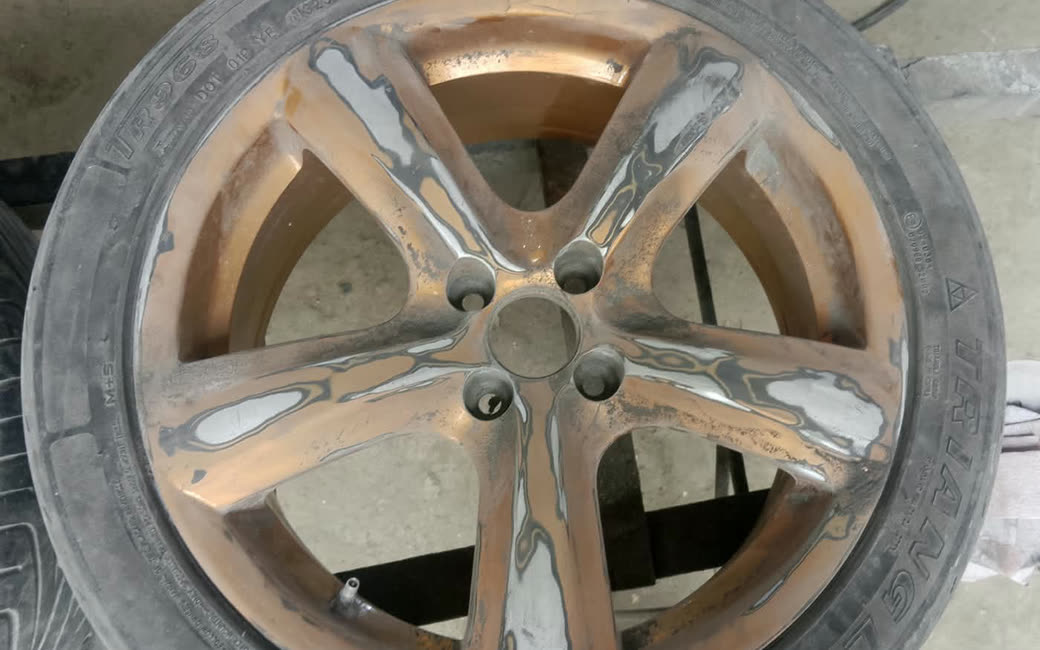
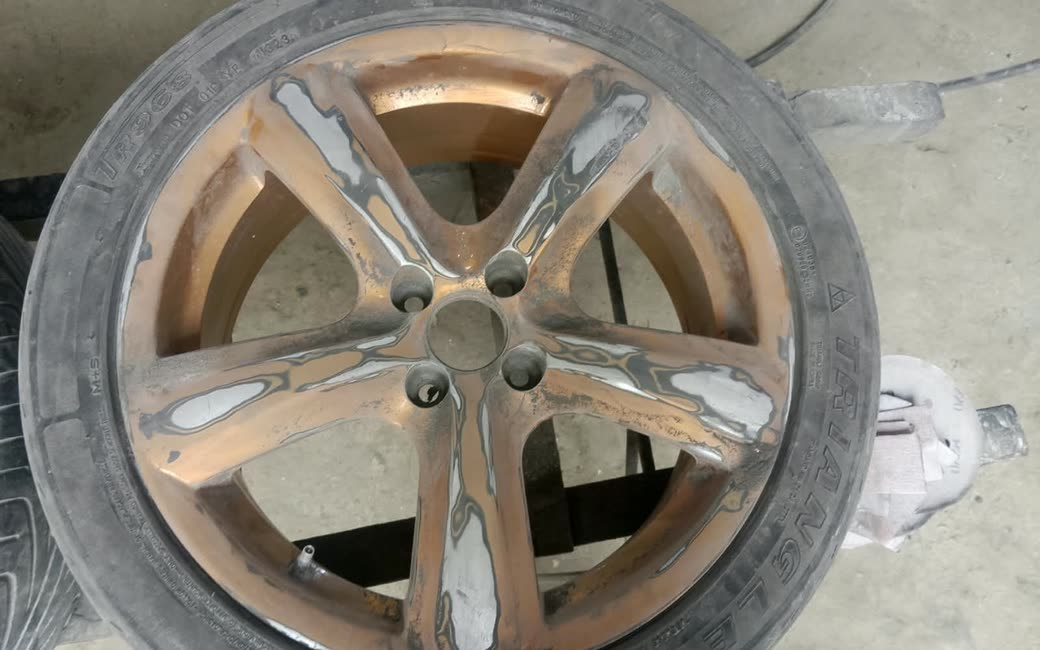
Open up the two new crops, and cut them back to a label
The finished car was framed too tight to read as a finish — it showed a
corner, not a car. Both car crops now use as much of their frame as 16:10
allows, so the after shows the whole car: black, glossy, gold rims on. The
rim pair does the same; its photos already had the rim filling the frame, so
the most that can be pulled back is the full picture at 16:10, which at least
leaves air around it rather than clipping top and bottom.

That gives up the alignment the first pair has — the rim sits further right
in the after, the car sits differently — which is the trade Carlos asked for:
showing the finish matters more here than the wipe lining up.

Their descriptions are gone. A photo of a rim going from bare metal to gold
does not need a paragraph explaining that rims get painted, so each keeps a
small label and nothing else. The first pair keeps its text, since the Datsun
needs the context of what was wrong with it.

Claude-Session: https://claude.ai/code/session_01PfKhjmf4nxZC1UoeR9eAoA

diff --git a/landing/base.html b/landing/base.html
@@ -259,6 +259,10 @@ section{padding-block:var(--s8)}
 .trabajo h3{font-family:var(--display);text-transform:uppercase;font-size:clamp(20px,2.4vw,28px);
   line-height:1.05;margin:0 0 var(--s3)}
 .trabajo p{color:var(--muted);max-width:44ch;margin:0 0 var(--s4)}
+/* Trabajos que se explican solos con la foto: basta el rótulo. */
+.trabajo h3.rotulo{font-size:clamp(17px,1.8vw,22px);color:var(--muted)}
+.trabajo h3.rotulo::before{content:"";display:block;width:34px;height:2px;
+  background:var(--red);margin-bottom:var(--s3)}
 /* Una lista numerada, no tres tarjetas: los pasos van en orden y el orden
    es justo lo que una fila de tarjetas iguales no sabe decir. */
 .pasos{list-style:none;margin:0;padding:0;border-top:1px solid var(--line)}
@@ -458,12 +462,8 @@ footer{border-top:1px solid var(--line);padding-block:var(--s5);display:flex;
         <img draggable="false" class="after" src="__CARRO_DESPUES__" alt="La misma esquina del carro terminada, en negro brillante y con el aro dorado puesto">
         <img draggable="false" class="before" src="__CARRO_ANTES__" alt="La misma esquina del carro en masilla y enmascarada, sobre caballetes y sin la rueda">
         <span class="tag l">Antes</span><span class="tag r">Después</span>
-        <div class="divider"></div><div class="knob">◂▸</div></div>
-        <p class="ba-hint">La misma esquina en los dos lados: puerta, aleta y rueda delantera.</p></div>
-      <div class="trabajo">
-        <h3>Del fondo gris<br>al negro</h3>
-        <p>Entró desarmado y en caballetes: lijado a fondo, masillado y enmascarado pieza por pieza. Salió en negro, con los aros a juego.</p>
-        <a class="btn ghost" href="https://wa.me/51934965098">Consulta por el tuyo</a></div>
+        <div class="divider"></div><div class="knob">◂▸</div></div></div>
+      <div class="trabajo"><h3 class="rotulo">Planchado<br>y pintura</h3></div>
     </article>
     <article class="trabajo-par">
       <div><div class="ba" data-ba tabindex="0" role="slider" aria-label="Comparador antes y después"
@@ -471,12 +471,8 @@ footer{border-top:1px solid var(--line);padding-block:var(--s5);display:flex;
         <img draggable="false" class="after" src="__ARO_DESPUES__" alt="El mismo aro terminado, pintado en dorado brillante">
         <img draggable="false" class="before" src="__ARO_ANTES__" alt="El aro decapado hasta el metal, con restos de óxido y sin pintura">
         <span class="tag l">Antes</span><span class="tag r">Después</span>
-        <div class="divider"></div><div class="knob">◂▸</div></div>
-        <p class="ba-hint">El mismo aro, antes y después: decapado hasta el metal y terminado en dorado.</p></div>
-      <div class="trabajo">
-        <h3>Pintado<br>de aros</h3>
-        <p>Se desmontan, se decapan hasta dejar el metal limpio y se pintan en el color y acabado que elijas. Estos salieron en dorado.</p>
-        <a class="btn ghost" href="https://wa.me/51934965098">Consulta por el tuyo</a></div>
+        <div class="divider"></div><div class="knob">◂▸</div></div></div>
+      <div class="trabajo"><h3 class="rotulo">Pintado<br>de aros</h3></div>
     </article>
   </div>
 </section>
